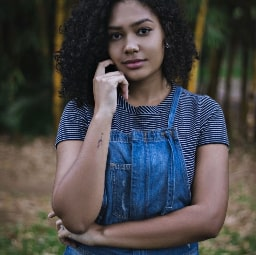
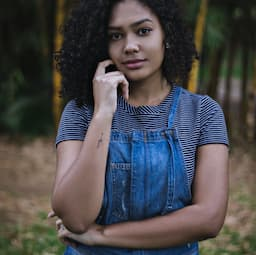
Recompression des images avec Squoosh

diff --git a/index.html b/index.html
@@ -7,36 +7,39 @@
 	<meta name="description"
 		content="Photographe professionnel portraits & événementiel à Bordeaux, Shooting photo à partir de 350€, Retouches photos professionnelles à 50€ la photo, Album photos de 30 pages à 400€.">
 	<meta name="viewport" content="width=device-width, initial-scale=1.0">
-	<!-- Balises OpenGraph pour Facebook -->
-	<meta property="og:site_name" content="Nina Carducci, photographe professionnel portraits & événementiel à Bordeaux"/>
-	<meta property="og:type" content="website"/>
-	<meta property="og:url" content="https://github.com/POQUELANDON/P5_Debuggez_et_optimisez_un_site_de_photographe.git" />
-	<meta property="og:title" content="Nina Carducci, photographe professionnel portraits & événementiel à Bordeaux - Plein d'articles géniaux" />
-	<meta property="og:description" content="Immortalisez vos plus beaux moments avec un photographe professionnel et créez des souvenirs inoubliables. Shooting, Retouches et Album photos, déplacement possible en Île-de-France possible." />
-	<meta property="og:image" content="https://github.com/POQUELANDON/P5_Debuggez_et_optimisez_un_site_de_photographe/blob/d424d30b1a18620ede2476a04c57735892091b5e/assets/images/nina.jpg">
-	<meta property="og:locale" content="fr_FR"/>
-	<!-- Balises Twitter Cards -->
-	<meta name="twitter:card" content="summary_large_image"/>
-	<meta name="twitter:site" content="@ninacarducci.photo"/>
-	<meta name="twitter:title" content="Nina Carducci, photographe professionnel portraits & événementiel à Bordeaux"/>
-	<meta name="twitter:description" content="Immortalisez vos plus beaux moments avec un photographe professionnel et créez des souvenirs inoubliables. Shooting, Retouches et Album photos, déplacement possible en Île-de-France possible.">
-	<meta name="twitter:image" content="https://github.com/POQUELANDON/P5_Debuggez_et_optimisez_un_site_de_photographe/blob/d424d30b1a18620ede2476a04c57735892091b5e/assets/images/nina.jpg">
-	<meta name="twitter:url" content="https://github.com/POQUELANDON/P5_Debuggez_et_optimisez_un_site_de_photographe.git" />
-
 	<link rel="stylesheet" href="./assets/style.css">
 	<link rel="preconnect" href="https://fonts.googleapis.com">
 	<link rel="preconnect" href="https://fonts.gstatic.com" crossorigin>
 	<link href="https://fonts.googleapis.com/css2?family=Inter&display=swap" rel="stylesheet">
 	<link href="https://cdn.jsdelivr.net/npm/bootstrap@5.1.3/dist/css/bootstrap.min.css" rel="stylesheet"
-		integrity="sha384-1BmE4kWBq78iYhFldvKuhfTAU6auU8tT94WrHftjDbrCEXSU1oBoqyl2QvZ6jIW3" crossorigin="anonymous"
-		defer>
+		integrity="sha384-1BmE4kWBq78iYhFldvKuhfTAU6auU8tT94WrHftjDbrCEXSU1oBoqyl2QvZ6jIW3" crossorigin="anonymous">
 	<script src="https://code.jquery.com/jquery-3.4.1.min.js"
-		integrity="sha256-CSXorXvZcTkaix6Yvo6HppcZGetbYMGWSFlBw8HfCJo=" crossorigin="anonymous" defer></script>
-	<script src="https://cdn.jsdelivr.net/npm/bootstrap@5.1.3/dist/js/bootstrap.bundle.min.js"
-		integrity="sha384-ka7Sk0Gln4gmtz2MlQnikT1wXgYsOg+OMhuP+IlRH9sENBO0LRn5q+8nbTov4+1p" crossorigin="anonymous"
-		defer></script>
+	integrity="sha256-CSXorXvZcTkaix6Yvo6HppcZGetbYMGWSFlBw8HfCJo=" crossorigin="anonymous" defer></script>
 	<script src="./assets/maugallery.js" defer></script>
 	<script src="./assets/scripts.js" defer></script>
+	<script src="https://cdn.jsdelivr.net/npm/bootstrap@5.1.3/dist/js/bootstrap.bundle.min.js"
+	integrity="sha384-ka7Sk0Gln4gmtz2MlQnikT1wXgYsOg+OMhuP+IlRH9sENBO0LRn5q+8nbTov4+1p" crossorigin="anonymous"
+	defer></script>
+	<!-- Balises OpenGraph pour Facebook -->
+	<meta property="og:site_name" content="Nina Carducci, photographe professionnel portraits & événementiel à Bordeaux" />
+	<meta property="og:type" content="website" />
+	<meta property="og:url" content="https://github.com/POQUELANDON/P5_Debuggez_et_optimisez_un_site_de_photographe.git" />
+	<meta property="og:title"
+		content="Nina Carducci, photographe professionnel portraits & événementiel à Bordeaux - Plein d'articles géniaux" />
+	<meta property="og:description"
+		content="Immortalisez vos plus beaux moments avec un photographe professionnel et créez des souvenirs inoubliables. Shooting, Retouches et Album photos, déplacement possible en Île-de-France possible." />
+	<meta property="og:image"
+		content="https://github.com/POQUELANDON/P5_Debuggez_et_optimisez_un_site_de_photographe/blob/d424d30b1a18620ede2476a04c57735892091b5e/assets/images/nina.jpg">
+	<meta property="og:locale" content="fr_FR" />
+	<!-- Balises Twitter Cards -->
+	<meta name="twitter:card" content="summary_large_image" />
+	<meta name="twitter:site" content="@ninacarducci.photo" />
+	<meta name="twitter:title" content="Nina Carducci, photographe professionnel portraits & événementiel à Bordeaux" />
+	<meta name="twitter:description"
+		content="Immortalisez vos plus beaux moments avec un photographe professionnel et créez des souvenirs inoubliables. Shooting, Retouches et Album photos, déplacement possible en Île-de-France possible.">
+	<meta name="twitter:image"
+		content="https://github.com/POQUELANDON/P5_Debuggez_et_optimisez_un_site_de_photographe/blob/d424d30b1a18620ede2476a04c57735892091b5e/assets/images/nina.jpg">
+	<meta name="twitter:url" content="https://github.com/POQUELANDON/P5_Debuggez_et_optimisez_un_site_de_photographe.git" />
 	<!-- Informations pour le référencement local microdonnées Schema.org-->
 	<script type="application/ld+json">
         {
@@ -60,9 +63,9 @@
 </head>
 
 <body>
-	<header class="top-header" role="banner">
-		<h1 class="name">Nina Carducci</h1>
-		<nav class="nav" role="navigation" aria-label="Menu principal">
+	<header class="top-header">
+		<h1 class="name" itemprop="name">Nina Carducci</h1>
+		<nav class="nav" aria-label="Menu principal">
 			<ul>
 				<li><a href="#about" aria-current="page">À propos</a></li>
 				<li><a href="#gallery">Galerie</a></li>
@@ -75,9 +78,9 @@
 		</nav>
 	</header>
 	<main role="main">
-		<article id="header">
+		<div role="banner" id="header">
 			<div id="carouselExampleIndicators" class="carousel slide" data-bs-ride="carousel">
-				<div class="carousel-indicators" role="listbox">
+				<div class="carousel-indicators">
 					<button type="button" data-bs-target="#carouselExampleIndicators" data-bs-slide-to="0"
 						class="active" aria-current="true" aria-label="Slide 1"></button>
 					<button type="button" data-bs-target="#carouselExampleIndicators" data-bs-slide-to="1"
@@ -85,17 +88,21 @@
 					<button type="button" data-bs-target="#carouselExampleIndicators" data-bs-slide-to="2"
 						aria-label="Slide 3"></button>
 				</div>
-				<div class="carousel-inner" role="list">
-					<div class="carousel-item active" role="listitem">
+				<div class="carousel-inner">
+					<div class="carousel-item active">
 						<img src="./assets/images/slider/ryoji-iwata-unsplash.jpg" class="d-block w-100"
-							alt="photographie de ryoji iwata" srcset="./assets/images/slider/ryoji-iwata-unsplash-300x139.jpg 300w,
-                            ./assets/images/slider/ryoji-iwata-unsplash-1140x527.jpg 1140w,
-                            ./assets/images/slider/ryoji-iwata-unsplash-1580x731.jpg 1580w" sizes="
-                            (max-width: 650px) 300px,
-                            (max-width: 1000px) 1140px,
-                            1580px">
+							alt="photographie de ryoji iwata" srcset="
+									./assets/images/slider/ryoji-iwata-unsplash-300x139.jpg 300w,
+									./assets/images/slider/ryoji-iwata-unsplash-1140x527.jpg 1140w,
+									./assets/images/slider/ryoji-iwata-unsplash-1580x731.jpg 1580w,
+									./assets/images/slider/ryoji-iwata-unsplash-1920x888.jpg 1920w,
+									./assets/images/slider/ryoji-iwata-unsplash-2048x947.jpg 2048w
+								" sizes="
+									(min-width: 2040px) 1920px,
+									calc(94.19vw + 17px)
+								">
 					</div>
-					<div class="carousel-item" role="listitem">
+					<div class="carousel-item">
 						<img src="./assets/images/slider/nicholas-green-unsplash.jpg" class="d-block w-100"
 							alt="photographie de nicholas green" srcset="./assets/images/slider/nicholas-green-unsplash-300x139.jpg 300w,
                             ./assets/images/slider/nicholas-green-unsplash-1140x527.jpg 1140w,
@@ -103,7 +110,7 @@
                             (max-width: 1000px) 1140px,
                             1580px">
 					</div>
-					<div class="carousel-item" role="listitem">
+					<div class="carousel-item">
 						<img src="./assets/images/slider/edward-cisneros-unsplash.jpg" class="d-block w-100"
 							alt="photographie de edward cisneros" srcset="./assets/images/slider/edward-cisneros-unsplash-300x139.jpg 300w,
                             ./assets/images/slider/edward-cisneros-unsplash-1140x527.jpg 1140w,
@@ -123,21 +130,20 @@
 					<span class="visually-hidden">Next</span>
 				</button>
 			</div>
-		</article>
-		<article id="about" role="article">
+		</div>
+		<article id="about">
 			<div class="picture left">
 				<img src="./assets/images/nina.jpg" alt="portrait de Nina Carducci" srcset="./assets/images/nina-256x255.jpg 256w,
-                            ./assets/images/nina-560x558.jpg 560w,
-                            ./assets/images/nina-730x728.jpg 730w,
-                            ./assets/images/nina-1120x1117.jpg 1120w" sizes="(max-width: 539px) 100vw,
-                            (max-width: 979px) 50vw,
-                            (max-width: 1020px) 33.3vw,
-                            (max-width: 1420px) 25vw,
-                            20vw">
+						./assets/images/nina-560x558.jpg 560w,
+						./assets/images/nina-730x728.jpg 730w,
+						./assets/images/nina-1120x1117.jpg 1120w" sizes="(min-width: 2020px) 560px,
+						(min-width: 1200px) calc(30vw - 40px),
+						(min-width: 660px) calc(46.15vw - 75px),
+						calc(80vw - 51px)">
 			</div>
-			<section id="about-me" role="region" aria-label="À propos de moi">
+			<section id="about-me" aria-label="À propos de moi">
 				<h2 class="about-me-title">A propos de moi</h2>
-				<article class="about-me-introduction" role="article">
+				<article class="about-me-introduction" role="article" itemprop="description">
 					Devenir photographe était pour moi une évidence. Comme si j’y étais prédestiné. Saisir un moment,
 					une émotion, une situation, un endroit, une lumière et les rendre immortels, voilà ce qui me fait
 					vibrer.
@@ -152,15 +158,15 @@
 				</p>
 			</section>
 		</article>
-		<article id="gallery" role="article">
+		<article id="gallery">
 			<h3 class="title">Portfolio</h3>
 			<section class="container-py-3">
 				<div class="gallery" style="display: none">
-					<img data-gallery-tag="Concert" class="gallery-item"
+					<img data-gallery-tag="Concert" class="gallery-item img-fluid"
 						src="./assets/images/gallery/concerts/concerts-aaron-paul-unsplash.jpg"
 						alt="photo concerts aaron paul"
 						srcset="./assets/images/gallery/concerts/concerts-aaron-paul-unsplash-500x500.jpg 500w" sizes="(max-width: 1000px) 500px,
-                                    500px">
+								500px">
 					<img data-gallery-tag="Entreprises" class="gallery-item"
 						src="./assets/images/gallery/entreprise/entreprise-ali-morshedlou-unsplash.jpg"
 						alt="photo entreprise ali morshedlou"
@@ -206,7 +212,7 @@
                                     500px">
 				</div>
 			</section>
-			<div class="quote" role="blockquote">
+			<div class="quote">
 				<figure>
 					<blockquote>
 						<h4 class="quote__text">
@@ -219,7 +225,7 @@
 				</figure>
 			</div>
 		</article>
-		<section id="services" role="region" aria-label="Mes services">
+		<section id="services" aria-label="Mes services">
 			<h3 class="title">Mes services</h3>
 			<div class="container">
 				<div class="service" role="article">
@@ -257,7 +263,7 @@
 				</div>
 			</div>
 		</section>
-		<section class="quote" role="blockquote">
+		<section class="quote">
 			<figure>
 				<blockquote>
 					<h4 class="quote__text">
@@ -269,7 +275,7 @@
 			</figure>
 		</section>
 	</main>
-	<footer id="contact" role="contentinfo">
+	<footer id="contact">
 		<div class="container">
 			<div class="form-container">
 				<h3>Une question ? Une demande de devis ?</h3>
@@ -295,4 +301,5 @@
 		</div>
 	</footer>
 </body>
+
 </html>
